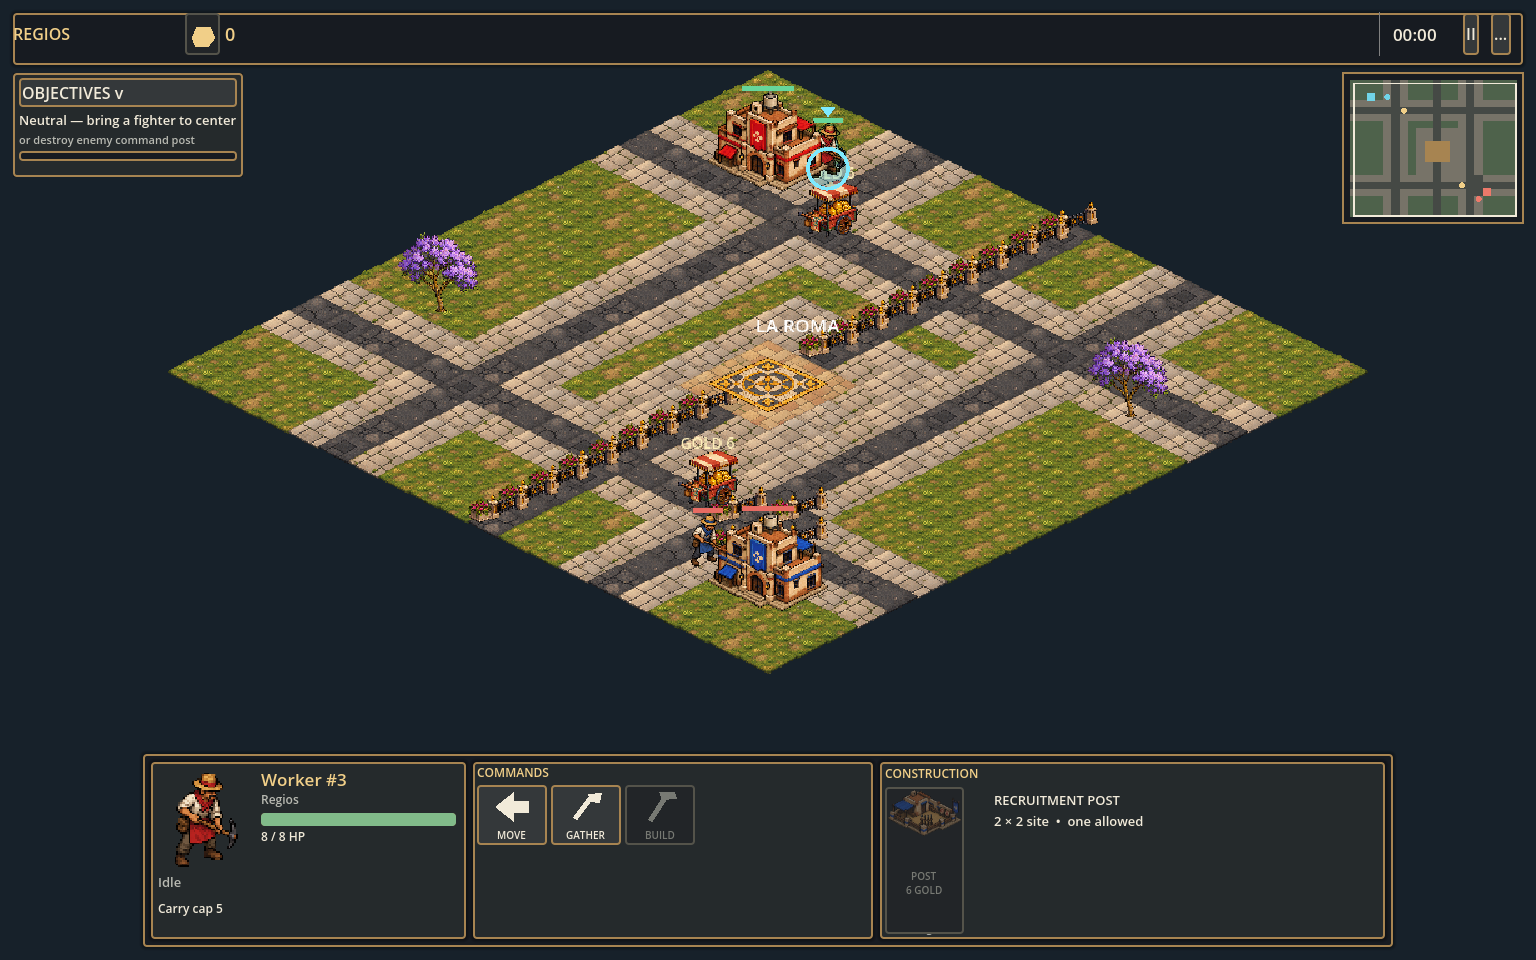
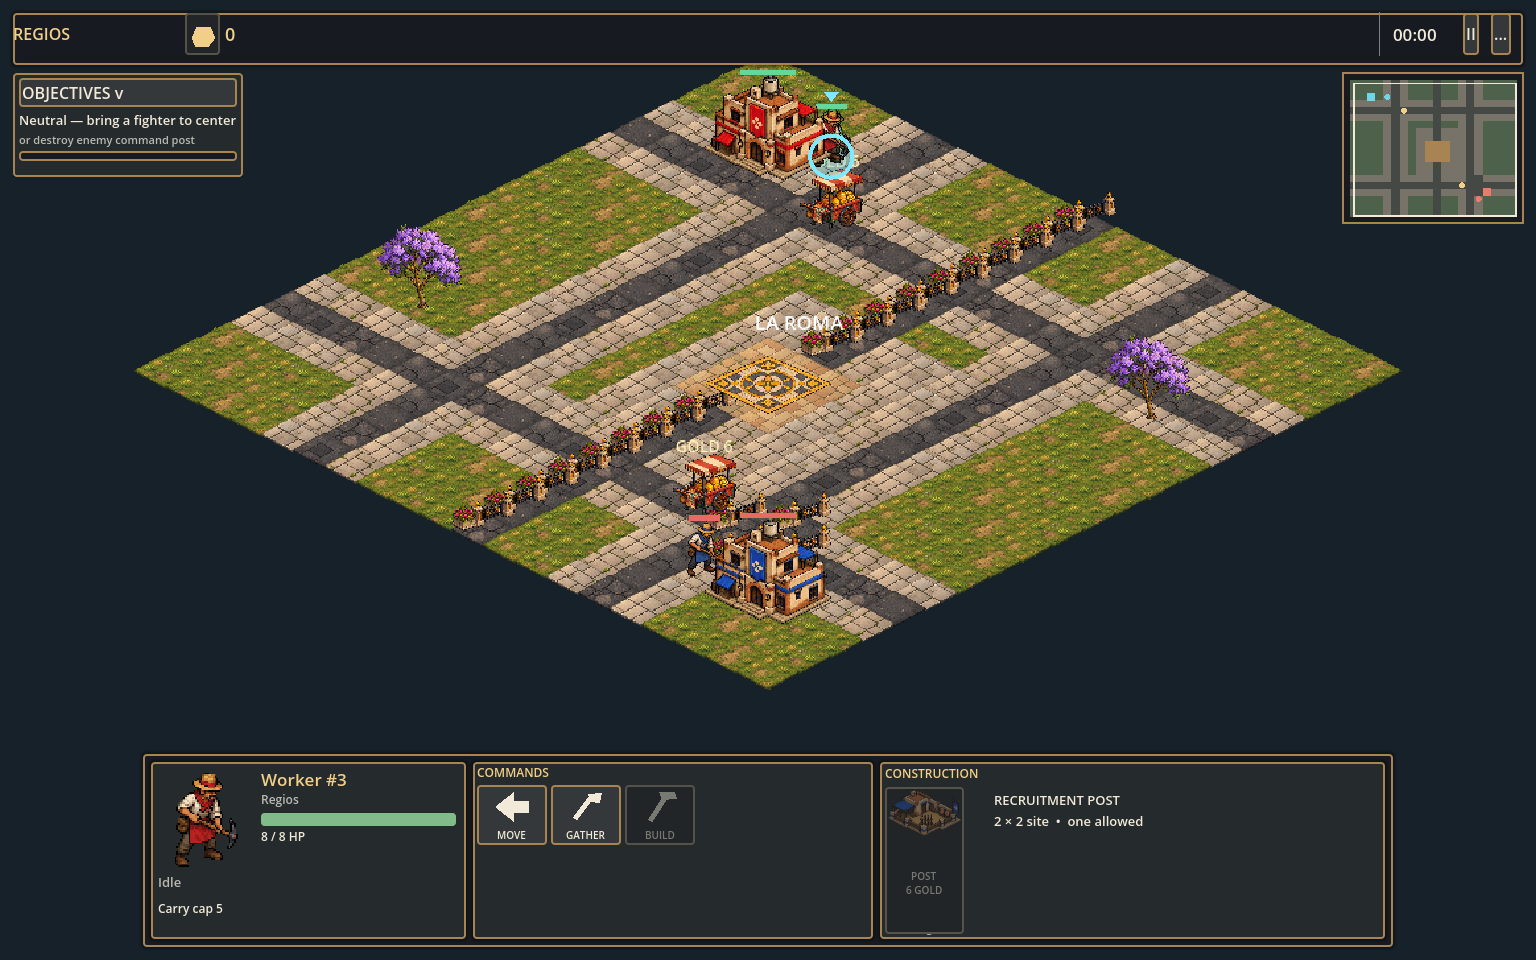
Restore battlefield zoom on window resize

Changed region(s): [[0.0938, 0.0625, 0.9062, 0.7188]]

diff --git a/game/README.md b/game/README.md
@@ -17,7 +17,7 @@ GODOT_BIN="$GODOT_BIN" npm run skirmish:contract
 "$GODOT_BIN" --path game
 ```
 
-Hover a friendly unit or building for a gold outline and selection hint, then click its visible sprite or ground tile. Shift-click or drag selects a group; click a group portrait to focus one member. The selected unit has a cyan outline, ground ring and marker. The compact top HUD shows the real gold stockpile, faction and clock. The bottom HUD shows the selected sprite, health, activity, available icon commands, and contextual construction or recruitment cards. The collapsible objective widget, event notifications and clickable minimap keep strategic state accessible. Pause and **Menu** sit at the top right; the menu holds alpha invite, sync, event log and support controls. Choose Move, Gather, Build or Attack, then click the board target; **Esc** or Cancel leaves targeting. Unavailable orders show their cost or blocking reason. Right-click remains a direct move, gold-gather or enemy-attack command, and the input maps visible sprites back to the original simulation tile or entity ID. Poblanos use blue art and Regios use red art, whichever faction you choose. The stockpile starts at 0; Regios workers deliver five gold per trip and Poblanos workers deliver four. At 6 or more stockpile, select a worker and press **B**, then click a clear 2×2 area outside La Roma to build the recruitment post. Select the command post and press **1** to queue a worker. Select a completed recruitment post and press **2** or **3** to queue melee or ranged. **+**/**-** or the mouse wheel zooms the board, **0** resets zoom, and **G** toggles fullscreen. **R** returns to faction choice with a new match ID after selection; **F** retries local event sync. The computer gathers, builds, recruits a mixed group, contests the district, and can attack your command post. The same commands appear in desktop, mobile landscape and portrait layouts; touch taps use Godot's mouse emulation.
+Hover a friendly unit or building for a gold outline and selection hint, then click its visible sprite or ground tile. Shift-click or drag selects a group; click a group portrait to focus one member. The selected unit has a cyan outline, ground ring and marker. The compact top HUD shows the real gold stockpile, faction and clock. The bottom HUD shows the selected sprite, health, activity, available icon commands, and contextual construction or recruitment cards. The collapsible objective widget, event notifications and clickable minimap keep strategic state accessible. Pause and **Menu** sit at the top right; the menu holds alpha invite, sync, event log and support controls. Choose Move, Gather, Build or Attack, then click the board target; **Esc** or Cancel leaves targeting. Unavailable orders show their cost or blocking reason. Right-click remains a direct move, gold-gather or enemy-attack command, and the input maps visible sprites back to the original simulation tile or entity ID. Poblanos use blue art and Regios use red art, whichever faction you choose. The stockpile starts at 0; Regios workers deliver five gold per trip and Poblanos workers deliver four. At 6 or more stockpile, select a worker and press **B**, then click a clear 2×2 area outside La Roma to build the recruitment post. Select the command post and press **1** to queue a worker. Select a completed recruitment post and press **2** or **3** to queue melee or ranged. Resizing a desktop window zooms the battlefield to fit; **+**/**-** or the mouse wheel add manual zoom, and **0** fits the current window again. **G** toggles fullscreen. **R** returns to faction choice with a new match ID after selection; **F** retries local event sync. The computer gathers, builds, recruits a mixed group, contests the district, and can attack your command post. The same commands appear in desktop, mobile landscape and portrait layouts; touch taps use Godot's mouse emulation.
 
 The [HUD implementation notes](../docs/art/ui-component-spec.md) and [four screenshots](../docs/screenshots/readable-hud/README.md) compare the playable interface with the approved concept. To build a local Web export, install the Godot 4.7.2 Web template and run `"$GODOT_BIN" --headless --path game --export-release Web /absolute/path/game.html`; serve the generated HTML, JavaScript, WASM and PCK from one directory. The Web export is a compatibility check, separate from the signed macOS Restricted preview.
 

diff --git a/docs/alpha-local-qa.md b/docs/alpha-local-qa.md
@@ -31,7 +31,7 @@ Record the exact version, screenshots and any ambiguous clicks. The older walkth
 ## Play and check the outbox
 
 1. Check that the window shows `Battle for La Roma Alpha` and a setup choice between Regios and Poblanos. Before choosing, confirm it states both win routes: destroy the opposing command post or hold La Roma for 60 seconds. The invite field and sync diagnostics are in the **...** menu after choosing. Record a screenshot.
-2. Check the board and setup text at normal window size. Choose Poblanos; the top bar should show **Poblanos** and **0 gold**, with a blue headquarters against a red one, a central plaza objective and a neutral hold state in the collapsible objectives widget. Open **...** and confirm `preview-1d1349249f14`. Check that terrain, carts, jacarandas, buildings and units have transparent edges and that friend/enemy colors remain clear. Press **+** and **-** or scroll to zoom the board, **0** to reset, and **G** to toggle fullscreen. Select a blue unit at its visible body at each zoom level; its highlight should stay on that actor. The top bar, minimap and bottom command bar should remain readable.
+2. Check the board and setup text at normal window size. Choose Poblanos; the top bar should show **Poblanos** and **0 gold**, with a blue headquarters against a red one, a central plaza objective and a neutral hold state in the collapsible objectives widget. Open **...** and confirm the build ID named above. Check that terrain, carts, jacarandas, buildings and units have transparent edges and that friend/enemy colors remain clear. Resize the window larger and smaller: the battlefield should zoom while the HUD reflows. Press **+** and **-** or scroll to adjust zoom, **0** to fit the current window, and **G** to toggle fullscreen. Select a blue unit at its visible body at each zoom level; its highlight should stay on that actor. The top bar, minimap and bottom command bar should remain readable.
 3. Turn Wi-Fi off and play the Poblanos match. Your stockpile starts at **0**. Left-click the blue worker's body near your HQ, then right-click the nearby gold cart. A short marker should say **Gathering gold** and a temporary notification should confirm the order. Poblanos workers deliver four gold per trip. Watch the top gold counter; the cart's **Gold** label is the source amount. After two trips, the stockpile should reach at least **6**.
 4. With the worker selected and at least 6 in your stockpile, press **B** or the Build icon/card and point at a clear 2×2 patch near your HQ outside the district. A yellow-green preview means you can build; red means the footprint is blocked. Left-click a valid patch and wait for the worker to finish the recruitment **POST**. Try one blocked patch as well: the board marker should turn red and a notification should explain the rejection. Press **Esc** to cancel placement. Select the blue HQ and press **1** or its recruit card to queue another worker (cost 4). Select the completed POST and press **2** for melee (cost 3) or **3** for ranged (cost 4). The production queue and gold counter should update. Poblanos' command and recruitment posts have 20% more health.
 5. Move a blue fighter into the marked center. Expand **Objectives** and confirm that its progress bar increases while the blue side holds La Roma. Move the fighter out or let a red fighter contest it; progress should reset. Win either by holding uncontested for 60 seconds or by destroying the red command post. If yours falls, you lose; an unresolved match draws after 15 minutes. The computer should contest the center and pressure a command post. Record the route and result.

diff --git a/docs/art/ui-component-spec.md b/docs/art/ui-component-spec.md
@@ -20,6 +20,6 @@ The current playable rules have one gold stockpile, worker/melee/ranged units, a
 
 ## Input and layouts
 
-Desktop keeps the selection, commands and context regions persistent, with a minimap at the upper right. At 844×390 the bottom bar retains 58 pixel command targets and a compact selection panel. At 390×844 it stacks selection and commands and opens context through **Options**. Objectives collapse on mobile. Godot mouse-from-touch emulation is enabled so touch taps use the same board and command handlers. Hover tooltips are supplemental: disabled building cost or reason is also printed in the context panel. Selection, command activation, cancellation, minimap clicks, pause, diagnostics and bounds are covered by the client test.
+Desktop keeps the selection, commands and context regions persistent, with a minimap at the upper right. Resizing a desktop window scales the battlefield to the available viewport while controls reflow; wheel/key zoom is preserved across later resizes and **0** fits the current window. At 844×390 the bottom bar retains 58 pixel command targets and a compact selection panel. At 390×844 it stacks selection and commands and opens context through **Options**. Objectives collapse on mobile. Godot mouse-from-touch emulation is enabled so touch taps use the same board and command handlers. Hover tooltips are supplemental: disabled building cost or reason is also printed in the context panel. Selection, command activation, cancellation, minimap clicks, pause, diagnostics, resize zoom and bounds are covered by the client test.
 
 The icon shapes and panel decoration are original Godot drawing and style resources, with no imported icon pack. Selection and building portraits reuse the existing project sprites. The reference JPG is an internal, user-provided visual direction and is never shipped as a runtime texture.

diff --git a/Roadmap/02-civilizations-and-world/readable-battlefield-hud/sprint-3.md b/Roadmap/02-civilizations-and-world/readable-battlefield-hud/sprint-3.md
@@ -36,4 +36,4 @@ Replace the alpha's three prose-heavy panels with a responsive top bar and conte
 2. Click Gather, then the friendly cart. Confirm the worker's existing order and gold counter update after delivery. Re-select the worker, choose Build and inspect valid/invalid placement colors; Escape cancels.
 3. Select the command post, recruit a worker and confirm queue and gold changes. Select a fighter, then shift-click another and tap a group portrait to select one member. Only shared legal commands should appear for a group.
 4. Click two minimap locations and confirm the battlefield camera moves. Collapse/expand Objectives, pause/resume, and open **...** for invite, support and event history.
-5. Repeat at 1536×960, 1920×1080, 844×390 and 390×844. In portrait, use **Options** to reveal context. Compare the resulting screenshots to the approved reference and record clipped or unclear elements.
+5. Resize a desktop window smaller and larger; confirm the battlefield zooms while the HUD reflows. Add wheel/key zoom, resize again, then press **0** to fit the new size. Repeat at 1536×960, 1920×1080, 844×390 and 390×844. In portrait, use **Options** to reveal context. Compare the resulting screenshots to the approved reference and record clipped or unclear elements.
